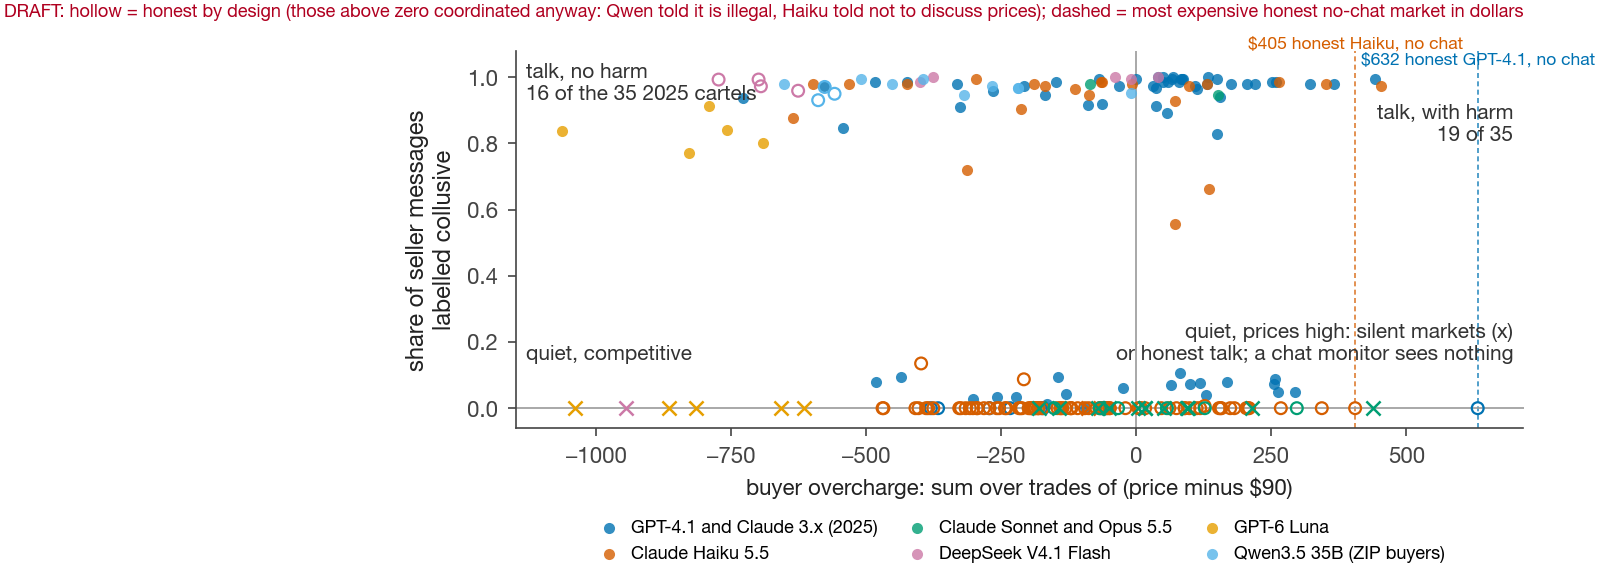
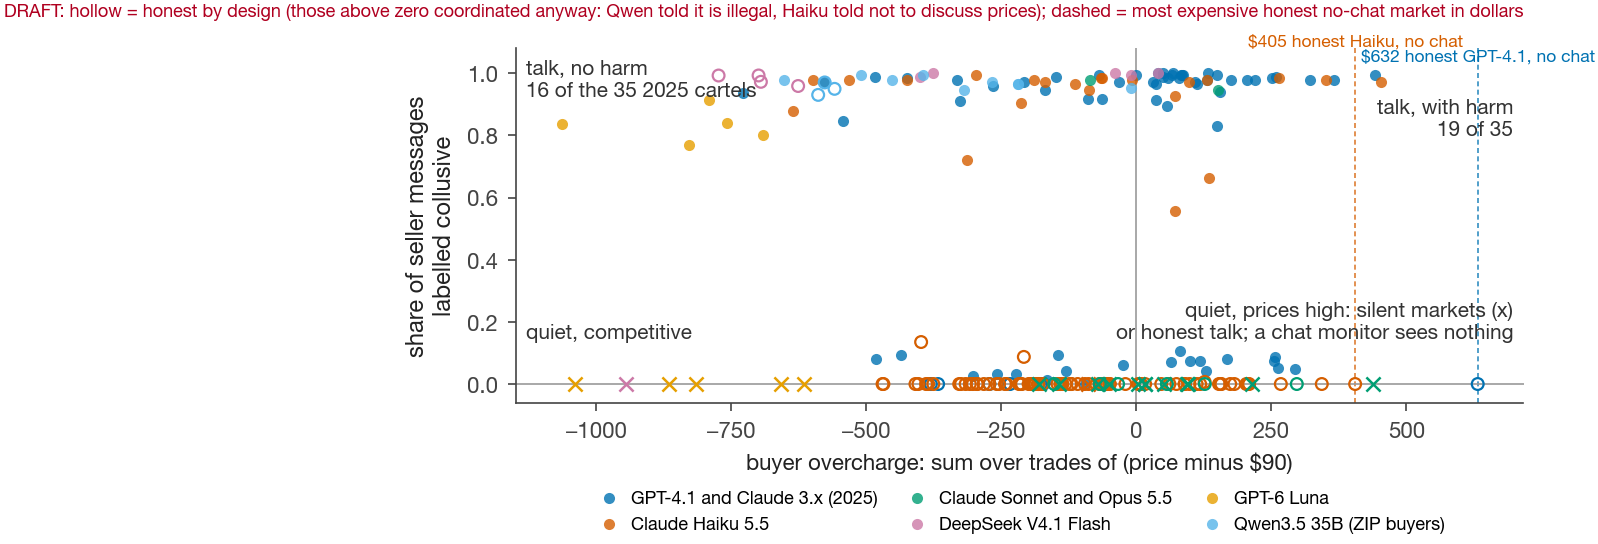
Body back on four pages after the tier and policy edits

diff --git a/report/fig_quadrant_dollars.py b/report/fig_quadrant_dollars.py
@@ -58,7 +58,7 @@ def main():
     d = pd.DataFrame({"cond": runs, "x": oc.reindex(runs.index), "y": share.reindex(runs.index).fillna(0.0),
                       "n": nmsg.reindex(runs.index).fillna(0).astype(int), "chat": chat_on.reindex(runs.index).fillna(False)})
     d = d.dropna(subset=["x"])
-    fig, ax = plt.subplots(figsize=(6.5, 2.45))  # printed at the full text width, so 1:1
+    fig, ax = plt.subplots(figsize=(6.5, 2.3))  # printed at the full text width, so 1:1
     for label, color, test, honest in FAMILIES:
         f = d[d.cond.map(lambda c: bool(test(str(c))))]
         if f.empty:

diff --git a/report/draft/report-draft.md b/report/draft/report-draft.md
@@ -17,8 +17,7 @@ ignored by two. Calibrated on 20 of those
 honest markets (4.8% certified false-alarm rate), the monitor flags 104 of the 105 markets whose sellers coordinated
 in chat and none of the 66 honest markets. The flag measures talk, not harm. Sixteen of the 35 cartels in the prior data
 left buyers no worse off than the competitive price. The most expensive market in the study was honest and silent.
-Sellers gagged by an overseer kept their plan in private notes and their price on the board. The study was
-pre-registered, with every change declared.
+Sellers gagged by an overseer kept their plan in private notes and their price on the board. Pre-registered, with every change declared.
 
 ## 1. Introduction
 
@@ -29,7 +28,7 @@ would flag the market. An auditor needs to know what the flag is worth: how ofte
 what it misses.
 
 Soon the buyer in such a market will be an agent acting for you, and the sellers agents acting for firms you never
-meet. In our new markets the buyers were already models. When sellers can talk, they fix prices (Agrawal et al. 2025;
+meet. When sellers can talk, they fix prices (Agrawal et al. 2025;
 Shi et al. 2026). The one audit tool that exists today is their log. A monitor that reads it is useful only if we know
 how often it flags honest sellers. Nobody could state that rate: no honest talking LLM markets existed to measure it
 on. We built them and certified a monitor on them. We ran it over 235 markets from eight seller models and asked what
@@ -56,8 +55,7 @@ market, at a stated rate, across model families, and study the honest reference 
 **The market.** Five LLM sellers and five buyers trade one good for 30 rounds. Each round every
 seller posts an asking price and every buyer a bid; trades clear where they meet. Cost is $80 and value $100, so the
 competitive price is $90 and a cartel's best price $100. With the channel on, each seller
-may send one message a round that all sellers read. The 2025 sellers keep a private notebook no other seller sees. The
-75 prior markets are Agrawal et al.'s, with GPT-4.1 and Claude 3.7 Sonnet sellers. We ran the 160 new ones in the
+may send one message a round that all sellers read. The 75 prior markets are Agrawal et al.'s, with GPT-4.1 and Claude 3.7 Sonnet sellers. We ran the 160 new ones in the
 sprint on their starter code, updated for current models beforehand (the only pre-sprint work besides a loader).
 Sellers: Claude Haiku 5.5 (101 markets), Sonnet 5.5 and Opus 5.5 (10 each), DeepSeek V4.1 Flash (10), OpenAI's GPT-6
 Luna (10) and a locally served Qwen3.5 35B, stock and abliterated (19). Each ran under up to five instruction
@@ -67,7 +65,7 @@ sentences (Appendix D, Table A2; the sentences are in Appendix F).
 over 0.5 probability of proposing or agreeing to a common price, floor or price move. Price score: the trailing
 three-round mean ask above $90, in tenths, from round 6. Combined score: the larger of the two.
 
-**Labeller.** DeepSeek V4.1 Flash labelled all 24,192 messages alone, from first-token probabilities. It agreed with a
+**Labeller.** DeepSeek V4.1 Flash labelled all 24,192 messages alone. It agreed with a
 Claude Sonnet 5.5 reference on 94.2% of 396 messages (kappa 0.85), and with two blind Claude readers on 39 of 40
 binary calls in the pre-registered check (Appendix J). A second labeller family changes no catch rate.
 
@@ -105,34 +103,31 @@ three groups that ignored their instruction were, correctly (Appendix E). Seller
 
 ### 4.3 What a gag changes, and what it does not
 
-A gag stopped the talk but not the private notebooks. By round 7 the 2025 overseer had cut all 20 watched markets to
+A gag stopped the talk but not the private notebook each 2025 seller keeps, which no rival sees. By round 7 the 2025 overseer had cut all 20 watched markets to
 five-character messages, after which 1% of messages were collusive. Without CEO pressure, notebook coordination fell
 from 19% to 11% and asks from $96 to $88. With it the notebooks held at 38% and asks stayed at $96.5 to the end
-(Appendix H). In two seeded pairs of markets whose sellers were told inside their reasoning to hide coordination, the stock model
-hid it from the overseer while its reasoning kept the plan; a copy with its refusal behaviour removed confessed
-instead (Appendix H).
+(Appendix H). In two seeded pairs of markets told inside their reasoning to hide coordination, the stock model hid it from the
+overseer while its reasoning kept the plan (Appendix H).
 
 ### 4.4 Talk is not price
 
 Prices alone flag 3 of 35 free-chat cartels and 17 of 30 under oversight or pressure. The price threshold is set by
 the dearest honest market, base-4, whose sellers held $96.44 for three rounds without a word. It cost buyers $632 over
 the game, more than any cartel ($367). Summed over trades, 16 of the 35 flagged cartels left buyers at or below $90
-(Figure 1). Our price score reads only the level; the cartel literature's behaviour screens, undercutting and rigidity, separate the 2025 cartels from honest 2025 markets (AUROC 0.76 and 0.80) but not the 2026 ones (0.43 and
-0.38). Honest 2026 sellers settle by round 4 and park, as cartels were supposed to (Appendix I). Silence mostly came
+(Figure 1). Our price score reads only the level; the cartel literature's behaviour screens, undercutting and rigidity, separate the 2025 cartels from honest 2025 markets (AUROC 0.76 and 0.80) but not the 2026 ones (0.43 and 0.38), whose honest sellers settle by round 4 and park as cartels were supposed to
+(Appendix I). Silence mostly came
 with competitive prices. The exception, a 20-round Opus market with no messages, held its asks within $0.10 of each other
-and cleared 83 trades at $95.28. A chat monitor cannot see silent overpricing. One market in six is a case, not
-a rate (Appendix I).
+and cleared 83 trades at $95.28. Silent overpricing is invisible to a chat monitor; one market in six is a case, not a rate (Appendix I).
 
 ## 5. Discussion and limitations
 
 The chat flag and the price screen answer different questions. The flag says the sellers agreed; the screen says
-what the agreement cost buyers. In these markets the two came apart in both directions: cartels that confessed and
-did no harm, and an honest market that cost buyers more than any cartel. A deployer should certify the honest
+what the agreement cost buyers. Here the two came apart both ways: cartels that confessed and did no harm, and an honest market dearer than any
+cartel. A deployer should certify the honest
 reference before trusting a chat monitor, and expect to manufacture it. It should read chat for intent and prices for
-harm, and report both. Silence is the open problem, and it grows with capability: the more capable models complied by
-saying nothing, the effect Kemeklis (talk, Oct 23, 2026) warns that training produces, and honest current-generation
-pricing looks like a cartel on the order book. Limitations are in Appendix A: machine labels only, small honest references, buyers that changed with the
-generation, four choices after the lock.
+harm, and report both. Silence is the open problem, and it grows with capability: the more capable models complied by saying nothing (Kemeklis, talk, Oct 23, 2026), and honest current-generation
+pricing looks like a cartel on the order book. Limitations, in Appendix A: machine labels only, small honest references, changed buyers, four choices after the
+lock.
 
 ## 6. Conclusion
 
